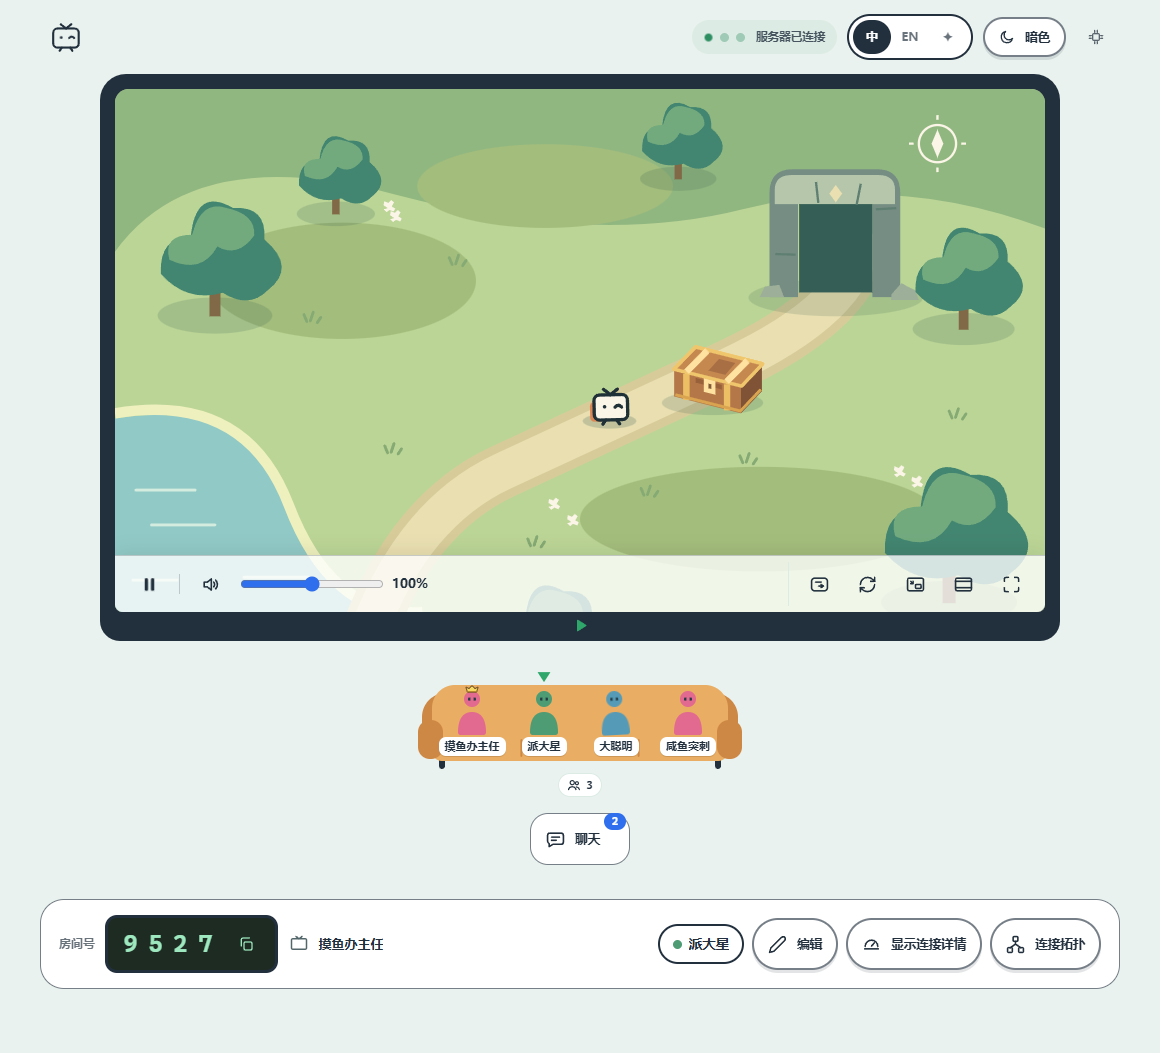
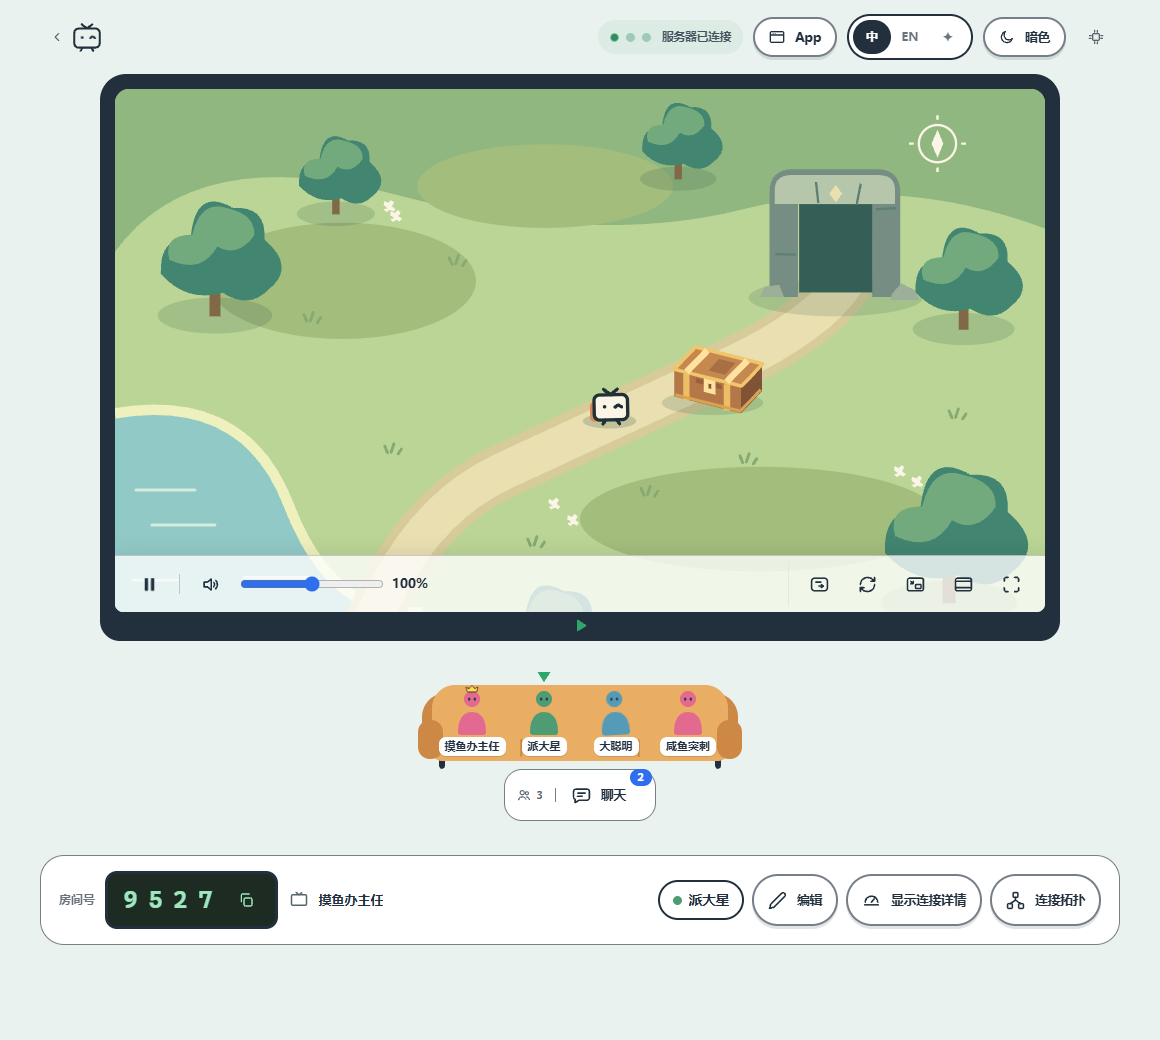
docs(site): align staged screens with current App navigation

diff --git a/site/film/ui/main.tsx b/site/film/ui/main.tsx
@@ -192,6 +192,9 @@ function Screen({ shot }: { shot: Shot }) {
   return (
     <div className="lr-app">
       <AppHeader
+        homeHref={launcher ? "/client" : "/"}
+        atHome={!viewer}
+        showAppConnection={shot !== "picker"}
         led={
           launcher ? undefined : (
             <LedStrip
